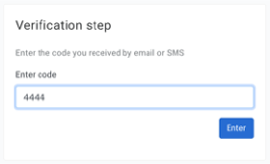
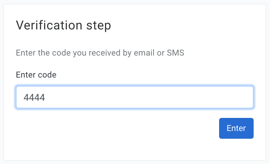
resize images

diff --git a/README.md b/README.md
@@ -42,6 +42,12 @@ Your custome can view all information collected and saved by Data Bunker in conn
 
 ![login form](images/ui-login-form.png) ![login with email](images/ui-login-email.png) ![login with code](images/ui-login-code.png)
 
+<p float="left">
+  <img src="images/ui-login-form.png" />
+  <img src="images/ui-login-email.png" /> 
+  <img src="images/ui-login-code.png" />
+</p>
+
 ## Right to restrict processing / Right to object / Consent withdrawal
 
 Data Bunker manages all user consents. User can **cancel specific consent** in his personal account at Data 
